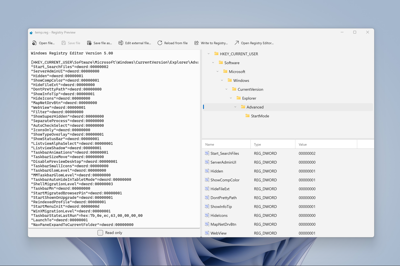
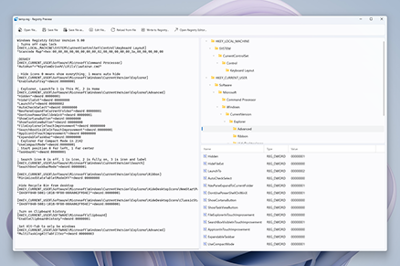
Removing Read Only
Based off the comments and how the app is being see in the early reports, this check box will just add confusion, so I've pulled it from the UX and screenshots.

diff --git a/src/modules/registrypreview/RegistryPreviewUI/MainWindow.xaml b/src/modules/registrypreview/RegistryPreviewUI/MainWindow.xaml
@@ -41,7 +41,6 @@
             <RowDefinition Height="*" />
             <RowDefinition Height="6" />
             <RowDefinition Height="*" />
-            <RowDefinition Height="Auto" />
         </Grid.RowDefinitions>
 
         <Grid
@@ -147,7 +146,7 @@
             Grid.Row="1"
             Grid.RowSpan="3"
             Grid.Column="0"
-            Margin="8,0,0,0"
+            Margin="8,0,0,8"
             HorizontalAlignment="Stretch"
             VerticalAlignment="Stretch"
             AcceptsReturn="True"
@@ -163,26 +162,6 @@
             ScrollViewer.VerticalScrollBarVisibility="Visible"
             TabIndex="0"
             TextWrapping="NoWrap" />
-
-        <StackPanel
-            x:Name="stackPanelTextBox"
-            Grid.Row="4"
-            Grid.Column="0"
-            HorizontalAlignment="Stretch"
-            VerticalAlignment="Stretch"
-            IsTabStop="False">
-            <CheckBox
-                x:Name="checkBoxTextBox"
-                x:Uid="checkBoxTextBox"
-                HorizontalAlignment="Center"
-                VerticalAlignment="Center"
-                Checked="CheckBoxTextBox_Checked"
-                Content="{Binding Content}"
-                IsChecked="True"
-                IsTabStop="True"
-                TabIndex="1"
-                Unchecked="CheckBoxTextBox_Unchecked" />
-        </StackPanel>
 
         <Grid
             Grid.Row="1"

diff --git a/src/modules/registrypreview/RegistryPreviewUI/MainWindow.Events.cs b/src/modules/registrypreview/RegistryPreviewUI/MainWindow.Events.cs
@@ -56,7 +56,6 @@ namespace RegistryPreview
             }
 
             // Save app settings
-            jsonSettings.SetNamedValue("checkBoxTextBox.Checked", JsonValue.CreateBooleanValue(checkBoxTextBox.IsChecked.Value));
             SaveSettingsFile(settingsFolder, settingsFile);
         }
 
@@ -67,12 +66,6 @@ namespace RegistryPreview
         {
             // static flag to track whether the Visual Tree is ready - if the main Grid has been loaded, the tree is ready.
             visualTreeReady = true;
-
-            // Load and restore app settings
-            if (jsonSettings.ContainsKey("checkBoxTextBox.Checked"))
-            {
-                checkBoxTextBox.IsChecked = jsonSettings.GetNamedBoolean("checkBoxTextBox.Checked");
-            }
 
             // Check to see if the REG file was opened and parsed successfully
             if (OpenRegistryFile(App.AppFilename) == false)
@@ -353,34 +346,6 @@ namespace RegistryPreview
         {
             RefreshRegistryFile();
             saveButton.IsEnabled = true;
-        }
-
-        /// <summary>
-        /// Readonly checkbox is checked, set textBox to read only; also update the font color so it has a hint of being "disabled" (also the hover state!)
-        /// </summary>
-        private void CheckBoxTextBox_Checked(object sender, RoutedEventArgs e)
-        {
-            textBox.IsReadOnly = true;
-            SolidColorBrush brush = new SolidColorBrush(Windows.UI.Color.FromArgb(255, 120, 120, 120)); // (SolidColorBrush)Application.Current.Resources["TextBoxDisabledForegroundThemeBrush"];
-            if (brush != null)
-            {
-                textBox.Foreground = brush;
-                textBox.Resources["TextControlForegroundPointerOver"] = brush;
-            }
-        }
-
-        /// <summary>
-        /// Readonly checkbox is unchecked, set textBox to be editable; also update the font color back to a theme friendly foreground (also the hover state!)
-        /// </summary>
-        private void CheckBoxTextBox_Unchecked(object sender, RoutedEventArgs e)
-        {
-            textBox.IsReadOnly = false;
-            SolidColorBrush brush = (SolidColorBrush)Application.Current.Resources["TextControlForeground"];
-            if (brush != null)
-            {
-                textBox.Foreground = brush;
-                textBox.Resources["TextControlForegroundPointerOver"] = brush;
-            }
         }
     }
 }
